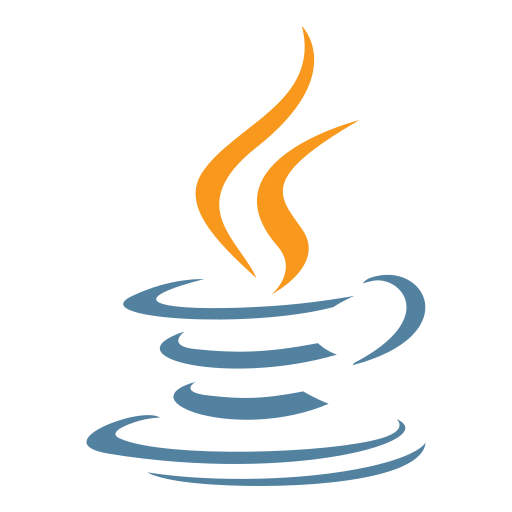
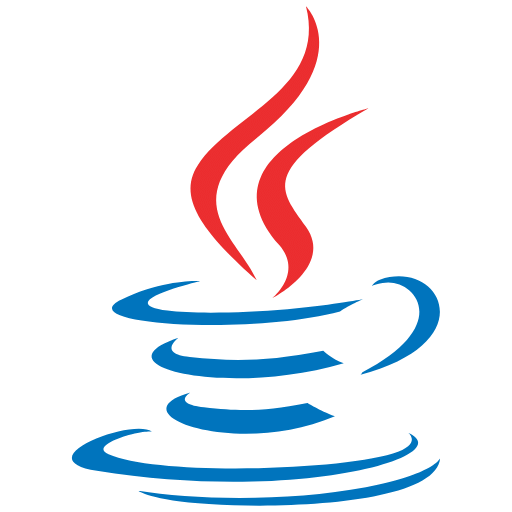
chore: added java to skills and new java project

Changed region(s): [[0.125, 0.2188, 0.875, 1.0], [0.375, 0.0, 0.625, 0.5625]]

diff --git a/components/Projects.js b/components/Projects.js
@@ -1,6 +1,5 @@
-import React from "react";
 import ProjectItem from "./ProjectItem";
-import { FaPhp, FaRust, FaHtml5, FaJs, FaCss3, FaPython, FaReact, FaNodeJs } from "react-icons/fa";
+import { FaPhp, FaRust, FaHtml5, FaJs, FaCss3, FaPython, FaReact, FaNodeJs, FaJava } from "react-icons/fa";
 import { useTranslation } from "next-i18next";
 import { BiLogoTailwindCss } from "react-icons/bi";
 import { TbBrandNextjs } from "react-icons/tb";
@@ -37,6 +36,11 @@ const Projects = () => {
 						title="bevy-fps-shooter"
 						projectUrl=""
 						langs={[<FaRust key="rust" />]}
+					/>
+					<ProjectItem
+					  title="pear2pear"
+						projectUrl=""
+						langs={[<FaJava key="java" />]}
 					/>
 				</div>
 			</div>

diff --git a/components/Skills.js b/components/Skills.js
@@ -13,6 +13,7 @@ import Cs from "../public/assets/skills/cs.png";
 import Css from "../public/assets/skills/css.png";
 import NextJs from "../public/assets/skills/nextjs.png";
 import React from "../public/assets/skills/react.png";
+import Java from "../public/assets/skills/java.png";
 
 const skillsList = [
   {
@@ -29,6 +30,11 @@ const skillsList = [
     label: "C#",
     icon: Cs,
     levelKey: "cs",
+  },
+  {
+    label: "Java",
+    icon: Java,
+    levelKey: "java",
   },
   {
     label: "PHP",
